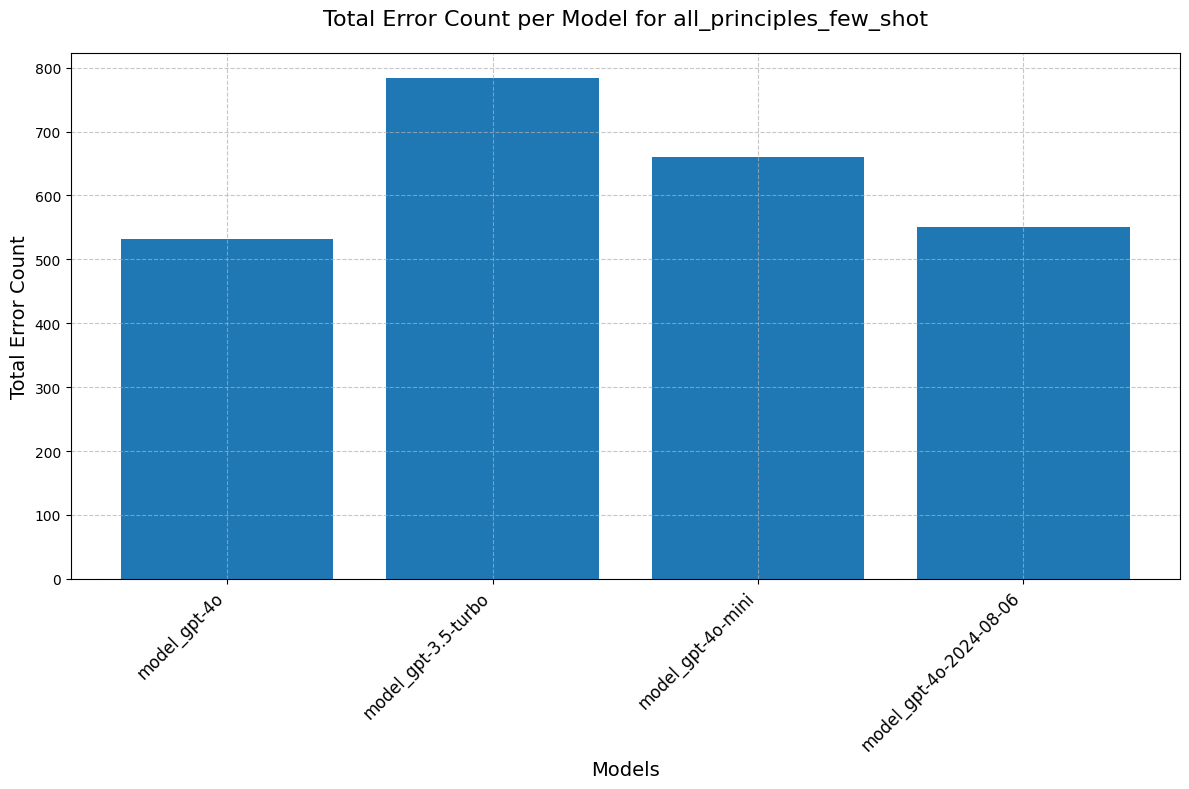
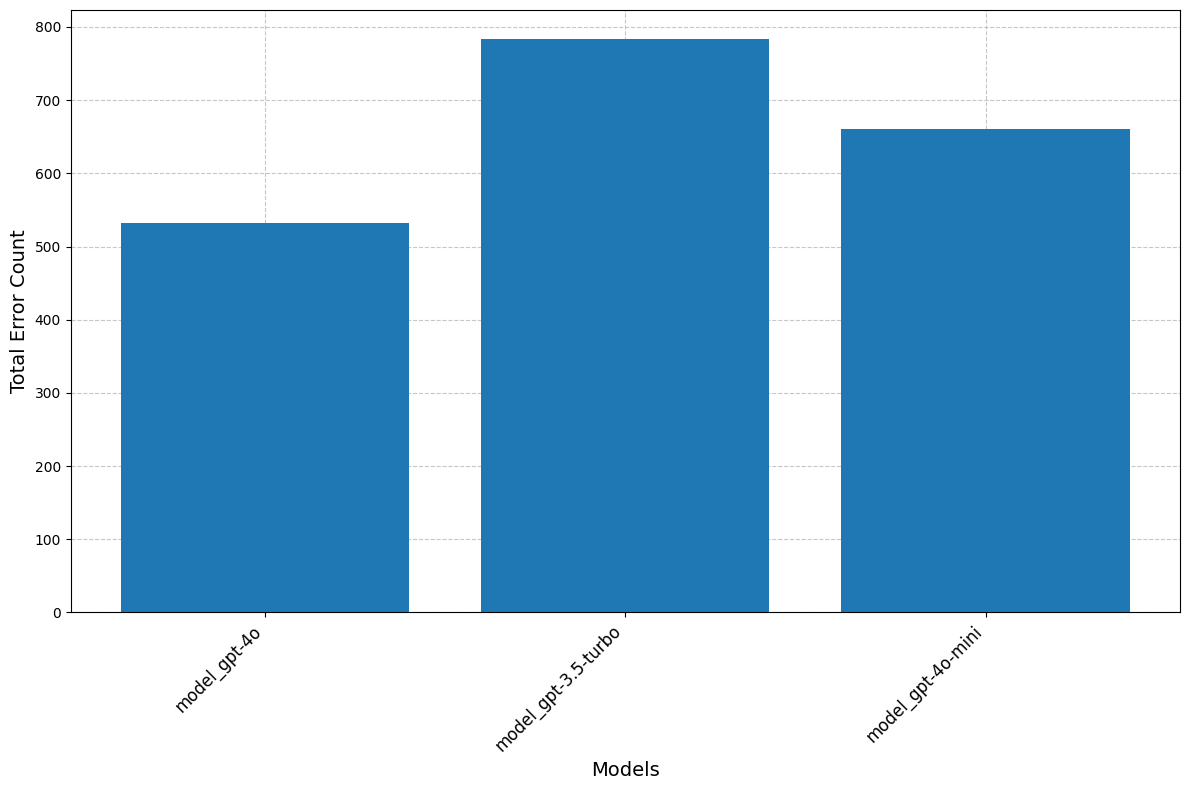
regenerate visualisation results. Refs #19.

diff --git a/visualisation/plot_with_error_bars.py b/visualisation/plot_with_error_bars.py
@@ -1,0 +1,126 @@
+import json
+import os
+from pathlib import Path
+
+import numpy as np
+from dotenv import load_dotenv
+from matplotlib import pyplot as plt
+
+
+class PlotWithErrorBars:
+    def __init__(self):
+        pass
+
+    @staticmethod
+    def extract_accuracy(models_directory, model_list):
+        exact_scores = {model: [] for model in model_list}
+        fuzzy_scores = {model: [] for model in model_list}
+
+        for model_folder in os.listdir(models_directory):
+            if os.path.isdir(os.path.join(models_directory, model_folder)) and model_folder in model_list:
+                # Adjust the path to look into the scores_json folder
+                scores_json_dir = os.path.join(models_directory, model_folder, 'scores_json')
+
+                # Ensure the scores_json directory exists
+                if os.path.exists(scores_json_dir):
+                    json_files = [file for file in os.listdir(scores_json_dir) if file.endswith('.json')]
+
+                    # Sort files by timestamp in the filename if necessary
+                    json_files.sort()
+                    if json_files:
+                        json_file_path = os.path.join(scores_json_dir, json_files[-1])
+
+                        with open(json_file_path, 'r') as file:
+                            data = json.load(file)
+
+                        # Ensure overall_results is a list
+                        if isinstance(data['overall_results'], list):
+                            # Filter to get only the results for "overall_path_exclude": "root['id']"
+                            for result in data['overall_results']:
+                                if isinstance(result, dict) and result.get('overall_path_exclude') == "root['id']":
+                                    exact_scores[model_folder].append(result['overall_exact_score'])
+                                    fuzzy_scores[model_folder].append(result['overall_fuzzy_score'])
+                                    break  # Assuming we only need one entry per model
+                else:
+                    print(f"No scores_json directory found in {model_folder}")
+
+        return exact_scores, fuzzy_scores
+
+    @staticmethod
+    def compute_mean_and_std(exact_scores, fuzzy_scores):
+        # Calculate mean and standard deviation per model across runs
+        exact_mean = {model: np.mean(scores) for model, scores in exact_scores.items()}
+        exact_std = {model: np.std(scores) for model, scores in exact_scores.items()}
+        fuzzy_mean = {model: np.mean(scores) for model, scores in fuzzy_scores.items()}
+        fuzzy_std = {model: np.std(scores) for model, scores in fuzzy_scores.items()}
+
+        return exact_mean, exact_std, fuzzy_mean, fuzzy_std
+
+    @staticmethod
+    def plot_overall_accuracy(model_names, exact_mean, fuzzy_mean, exact_std, fuzzy_std, prompt_name):
+        x = np.arange(len(model_names))
+        bar_width = 0.35
+
+        fig, ax = plt.subplots()
+
+        # Convert dictionaries to lists for plotting
+        exact_mean_values = [exact_mean[model] for model in model_names]
+        fuzzy_mean_values = [fuzzy_mean[model] for model in model_names]
+        exact_std_values = [exact_std[model] for model in model_names]
+        fuzzy_std_values = [fuzzy_std[model] for model in model_names]
+
+        # Plot with error bars per model for exact and fuzzy scores
+        ax.bar(x - bar_width / 2, exact_mean_values, bar_width, yerr=exact_std_values, label='Exact Accuracy', zorder=3,
+               capsize=5)
+        ax.bar(x + bar_width / 2, fuzzy_mean_values, bar_width, yerr=fuzzy_std_values, label='Fuzzy Accuracy', zorder=3,
+               capsize=5)
+
+        ax.set_xlabel('Models')
+        ax.set_ylabel('Accuracy')
+        # ax.set_title(f'Exact vs Fuzzy Accuracy by Model for {prompt_name}', pad=20)
+        ax.set_xticks(x)
+
+        # Truncate model names for better visibility
+        truncated_model_names = [name.replace("model_", "") for name in model_names]
+        ax.set_xticklabels(truncated_model_names, rotation=45, ha='right')
+        ax.legend(loc='upper left', bbox_to_anchor=(1, 1))
+
+        plt.tight_layout()
+        plt.grid(True, linestyle='--', alpha=0.7, zorder=0)
+        plt.ylim(0.0, 1.0)
+
+        # Save the plot
+        output_dir = os.path.join('output_error_bar_plots')
+        if not os.path.exists(output_dir):
+            os.makedirs(output_dir, exist_ok=True)
+        plt.savefig(os.path.join(output_dir, f'overall_scores_error_bars_{prompt_name}.png'), bbox_inches='tight')
+
+
+if __name__ == '__main__':
+    overall_accuracy = PlotWithErrorBars
+    load_dotenv()
+    base_dir = Path(os.getenv('PROJECT_BASE_DIR'))
+
+    results_dir = os.path.join(base_dir, 'evaluation_results', 'results')
+    prompt_dirs = ['best_prompt_run_1', 'best_prompt_run_2', 'best_prompt_run_3']
+    model_list = ['model_gpt-4o', 'model_gpt-4o-mini', 'model_gpt-3.5-turbo']
+
+    # Create empty dictionaries to store scores across runs
+    all_exact_scores = {model: [] for model in model_list}
+    all_fuzzy_scores = {model: [] for model in model_list}
+
+    # Collect scores from each run
+    for prompt_dir_name in prompt_dirs:
+        models_dir = os.path.join(base_dir, 'evaluation_results', 'results', prompt_dir_name)
+        exact_scores, fuzzy_scores = overall_accuracy.extract_accuracy(models_dir, model_list)
+
+        # Append the scores for this run to the cumulative lists
+        for model in model_list:
+            all_exact_scores[model].extend(exact_scores[model])
+            all_fuzzy_scores[model].extend(fuzzy_scores[model])
+
+    # Compute per-model mean and standard deviations for error bars
+    exact_mean, exact_std, fuzzy_mean, fuzzy_std = overall_accuracy.compute_mean_and_std(all_exact_scores, all_fuzzy_scores)
+
+    # Plot with error bars per model
+    overall_accuracy.plot_overall_accuracy(model_list, exact_mean, fuzzy_mean, exact_std, fuzzy_std, 'best_prompt')

diff --git a/visualisation/visualize_all.py b/visualisation/visualize_all.py
@@ -9,6 +9,7 @@ from visualisation.plot_costs import CostPlot
 from visualisation.plot_mistral_metrics import PlotMistralMetrics
 from visualisation.plot_open_ai_metrics import PlotOpenAIMetrics
 from visualisation.plot_runtime import RuntimePlot
+from visualisation.plot_with_error_bars import PlotWithErrorBars
 from visualisation.scores_error_types import ErrorTypePlot
 from visualisation.scores_for_exclude_paths import ExcludePathsPlot
 from visualisation.scores_overall_accuracy import OverallAccuracy
@@ -20,11 +21,24 @@ def plot_overall_accuracy():
     base_dir = Path(os.getenv('PROJECT_BASE_DIR'))
 
     results_dir = os.path.join(base_dir, 'evaluation_results', 'results')
-    prompt_dirs = os.listdir(results_dir)
 
-    for prompt_dir_name in prompt_dirs:
+    # plots for standard models all prompt types
+    prompt_dirs_standard = ['no_principles_base_prompt', 'all_principles_zero_shot', 'all_principles_few_shot', 'chain_of_thought', 'best_prompt']
+    models_list_standard = ['model_gpt-4o', 'model_gpt-4o-mini', 'model_gpt-3.5-turbo']
+
+    for prompt_dir_name in prompt_dirs_standard:
         models_dir = os.path.join(base_dir, 'evaluation_results', 'results', prompt_dir_name)
-        model_names, exact_scores, fuzzy_scores = overall_accuracy.extract_overall_accuracy(models_dir)
+        model_names, exact_scores, fuzzy_scores = overall_accuracy.extract_overall_accuracy(models_dir, models_list_standard)
+        overall_accuracy.plot_overall_accuracy(model_names, exact_scores, fuzzy_scores, prompt_dir_name)
+
+    # plots for fine-tuned gpt-4o-mini models and standard gpt-4o-mini model
+    models_list_ft = ['model_gpt-4o-mini', 'model_ft:gpt-4o-mini-2024-07-18:university-of-bielefeld::A5quE69s']
+    prompt_dirs_ft = ['fine_tuning_best_prompt_fold_2']
+
+    for prompt_dir_name in prompt_dirs_ft:
+        models_dir = os.path.join(base_dir, 'evaluation_results', 'results', prompt_dir_name)
+        model_names, exact_scores, fuzzy_scores = overall_accuracy.extract_overall_accuracy(models_dir,
+                                                                                            models_list_ft)
         overall_accuracy.plot_overall_accuracy(model_names, exact_scores, fuzzy_scores, prompt_dir_name)
 
 
@@ -51,20 +65,28 @@ def plot_exclude_paths():
     exclude_paths_plot.extract_and_plot_all(models_dir)
 
 
-def plot_json_size_vs_accuracy():
+def plot_size_vs_accuracy():
     load_dotenv()
     base_dir = Path(os.getenv('PROJECT_BASE_DIR'))
     models_dir = os.path.join(base_dir, 'evaluation_results', 'results')
 
-    jsonSizeScatterPlot = ScatterPlot()
+    scatterPlot = ScatterPlot()
 
     # Extract error counts
-    data_point_set_library = jsonSizeScatterPlot.extract_fuzzy_scores_and_field_counts(models_dir, ["root['id']"])
+    data_point_set_library = scatterPlot.extract_fuzzy_scores_and_field_counts(models_dir,
+                                                                               ["root['id']"])
 
     # Plot error counts for each model and prompt type
     for key in data_point_set_library.data_point_sets:
         data_points_for_model_and_prompt = data_point_set_library.data_point_sets[key]
-        jsonSizeScatterPlot.plot_fuzzy_accuracy_vs_field_count(data_points_for_model_and_prompt)
+        scatterPlot.plot_fuzzy_accuracy_vs_field_count(data_points_for_model_and_prompt)
+
+    data_point_set_library_text_length = scatterPlot.extract_fuzzy_accuracy_and_text_length(models_dir,
+                                                                                            ["root['id']"])
+
+    for key in data_point_set_library_text_length.data_point_sets:
+        data_points_for_model_and_prompt_text_length = data_point_set_library_text_length.data_point_sets[key]
+        scatterPlot.plot_fuzzy_accuracy_vs_text_length(data_points_for_model_and_prompt_text_length)
 
 
 def plot_box_plot():
@@ -132,13 +154,44 @@ def plot_mistral_results():
         plot_mistral_metrics.plot_metrics(model_name, checkpoints, plot_output_dir, file_name)
 
 
+def plot_with_error_bars():
+    overall_accuracy = PlotWithErrorBars
+    load_dotenv()
+    base_dir = Path(os.getenv('PROJECT_BASE_DIR'))
+
+    results_dir = os.path.join(base_dir, 'evaluation_results', 'results')
+    prompt_dirs = ['best_prompt_run_1', 'best_prompt_run_2', 'best_prompt_run_3']
+    model_list = ['model_gpt-4o', 'model_gpt-4o-mini', 'model_gpt-3.5-turbo']
+
+    # Create empty dictionaries to store scores across runs
+    all_exact_scores = {model: [] for model in model_list}
+    all_fuzzy_scores = {model: [] for model in model_list}
+
+    # Collect scores from each run
+    for prompt_dir_name in prompt_dirs:
+        models_dir = os.path.join(base_dir, 'evaluation_results', 'results', prompt_dir_name)
+        exact_scores, fuzzy_scores = overall_accuracy.extract_accuracy(models_dir, model_list)
+
+        # Append the scores for this run to the cumulative lists
+        for model in model_list:
+            all_exact_scores[model].extend(exact_scores[model])
+            all_fuzzy_scores[model].extend(fuzzy_scores[model])
+
+    # Compute per-model mean and standard deviations for error bars
+    exact_mean, exact_std, fuzzy_mean, fuzzy_std = overall_accuracy.compute_mean_and_std(all_exact_scores, all_fuzzy_scores)
+
+    # Plot with error bars per model
+    overall_accuracy.plot_overall_accuracy(model_list, exact_mean, fuzzy_mean, exact_std, fuzzy_std, 'best_prompt')
+
+
 if __name__ == '__main__':
     plot_overall_accuracy()
     plot_error_types()
     plot_exclude_paths()
-    plot_json_size_vs_accuracy()
+    plot_size_vs_accuracy()
     plot_box_plot()
     plot_costs_per_model()
     plot_runtime()
     plot_openai_results()
     plot_mistral_results()
+    plot_with_error_bars()

diff --git a/visualisation/scores_overall_accuracy.py b/visualisation/scores_overall_accuracy.py
@@ -1,5 +1,6 @@
 import json
 import os
+import re
 from pathlib import Path
 
 import matplotlib.pyplot as plt
@@ -12,13 +13,13 @@ class OverallAccuracy:
         pass
 
     @staticmethod
-    def extract_overall_accuracy(models_directory):
+    def extract_overall_accuracy(models_directory, models_list):
         model_names = []
         exact_scores = []
         fuzzy_scores = []
 
         for model_folder in os.listdir(models_directory):
-            if os.path.isdir(os.path.join(models_directory, model_folder)) and model_folder in {'model_gpt-4o', 'model_gpt-4o-mini', 'model_gpt-3.5-turbo'}:
+            if os.path.isdir(os.path.join(models_directory, model_folder)) and model_folder in models_list:
                 # Adjust the path to look into the scores_json folder
                 scores_json_dir = os.path.join(models_directory, model_folder, 'scores_json')
 
@@ -59,7 +60,8 @@ class OverallAccuracy:
         ax.set_ylabel('Accuracy')
         # ax.set_title(f'Exact vs Fuzzy Accuracy by Model for {prompt_name}', pad=20)
         ax.set_xticks(x)
-        truncated_model_names = [name.replace("model_", "") for name in model_names]
+        truncated_model_names = [re.sub(r'(-\d{4}-\d{2}-\d{2}).*', '', name.replace("model_", "").replace(":", "_")) for
+                                 name in model_names]
 
         ax.set_xticklabels(truncated_model_names, rotation=45, ha='right')
         ax.legend(loc='upper left', bbox_to_anchor=(1, 1))
@@ -79,10 +81,22 @@ if __name__ == '__main__':
     base_dir = Path(os.getenv('PROJECT_BASE_DIR'))
 
     results_dir = os.path.join(base_dir, 'evaluation_results', 'results')
-    prompt_dirs = os.listdir(results_dir)
 
-    for prompt_dir_name in prompt_dirs:
+    # plots for standard models all prompt types
+    prompt_dirs_standard = ['no_principles_base_prompt', 'all_principles_zero_shot', 'all_principles_few_shot', 'chain_of_thought', 'best_prompt']
+    models_list_standard = ['model_gpt-4o', 'model_gpt-4o-mini', 'model_gpt-3.5-turbo']
+
+    for prompt_dir_name in prompt_dirs_standard:
         models_dir = os.path.join(base_dir, 'evaluation_results', 'results', prompt_dir_name)
-        model_names, exact_scores, fuzzy_scores = overall_accuracy.extract_overall_accuracy(models_dir)
+        model_names, exact_scores, fuzzy_scores = overall_accuracy.extract_overall_accuracy(models_dir, models_list_standard)
         overall_accuracy.plot_overall_accuracy(model_names, exact_scores, fuzzy_scores, prompt_dir_name)
 
+    # plots for fine-tuned gpt-4o-mini models and standard gpt-4o-mini model
+    models_list_ft = ['model_gpt-4o-mini', 'model_ft:gpt-4o-mini-2024-07-18:university-of-bielefeld::A5quE69s']
+    prompt_dirs_ft = ['fine_tuning_best_prompt_fold_2']
+
+    for prompt_dir_name in prompt_dirs_ft:
+        models_dir = os.path.join(base_dir, 'evaluation_results', 'results', prompt_dir_name)
+        model_names, exact_scores, fuzzy_scores = overall_accuracy.extract_overall_accuracy(models_dir,
+                                                                                            models_list_ft)
+        overall_accuracy.plot_overall_accuracy(model_names, exact_scores, fuzzy_scores, prompt_dir_name)

diff --git a/visualisation/scores_error_types.py b/visualisation/scores_error_types.py
@@ -65,7 +65,7 @@ class ErrorTypePlot:
         return all_error_counts
 
     @staticmethod
-    def extract_and_count_total_errors_per_model_per_prompt_type(results_directory):
+    def extract_and_count_total_errors_per_model_per_prompt_type(results_directory, model_list):
         """
         Extracts and counts total errors per model for each prompt type.
 
@@ -88,7 +88,7 @@ class ErrorTypePlot:
                 for model_folder in os.listdir(prompt_type_path):
                     model_path = os.path.join(prompt_type_path, model_folder)
 
-                    if os.path.isdir(model_path) and model_folder.startswith('model_'):
+                    if os.path.isdir(model_path) and model_folder in model_list:
                         scores_json_dir = os.path.join(model_path, 'scores_json')
 
                         if os.path.exists(scores_json_dir):
@@ -190,12 +190,12 @@ class ErrorTypePlot:
 
             # Bar plot
             bar_positions = np.arange(len(models))
-            ax.bar(bar_positions, total_errors, color='#1f77b4')
+            ax.bar(bar_positions, total_errors, color='#1f77b4',  zorder=3)
 
             # Set labels and title
             ax.set_xlabel('Models', fontsize=14)
             ax.set_ylabel('Total Error Count', fontsize=14)
-            ax.set_title(f'Total Error Count per Model for {prompt_type}', fontsize=16, pad=20)
+            # ax.set_title(f'Total Error Count per Model for {prompt_type}', fontsize=16, pad=20)
 
             # Set x-ticks and rotate for better readability
             ax.set_xticks(bar_positions)
@@ -231,7 +231,8 @@ if __name__ == '__main__':
         errorTypePlot.plot_error_counts(prompt_type, model_name, error_counts)
 
     # Extract total error counts by model
-    all_error_counts_by_model = errorTypePlot.extract_and_count_total_errors_per_model_per_prompt_type(models_dir)
+    model_list = ['model_gpt-4o', 'model_gpt-4o-mini', 'model_gpt-3.5-turbo']
+    all_error_counts_by_model = errorTypePlot.extract_and_count_total_errors_per_model_per_prompt_type(models_dir, model_list)
 
     # Plot total error counts for each model
     errorTypePlot.plot_total_error_counts_by_prompt_type(all_error_counts_by_model)

diff --git a/visualisation/plot_open_ai_metrics.py b/visualisation/plot_open_ai_metrics.py
@@ -59,8 +59,8 @@ class PlotOpenAIMetrics:
         plt.figure(figsize=(14, 8))
 
         # Set a main title for all subplots
-        title_name = re.sub(r'result_file_|-\d{4}-\d{2}-\d{2}', '', os.path.splitext(file_name)[0])
-        plt.suptitle(f"Fine-Tuning Metrics for {title_name}", fontsize=16)
+        # title_name = re.sub(r'result_file_|-\d{4}-\d{2}-\d{2}', '', os.path.splitext(file_name)[0])
+        # plt.suptitle(f"Fine-Tuning Metrics for {title_name}", fontsize=16)
 
         # Plot Train Loss as a line plot (complete data)
         plt.subplot(2, 2, 1)
